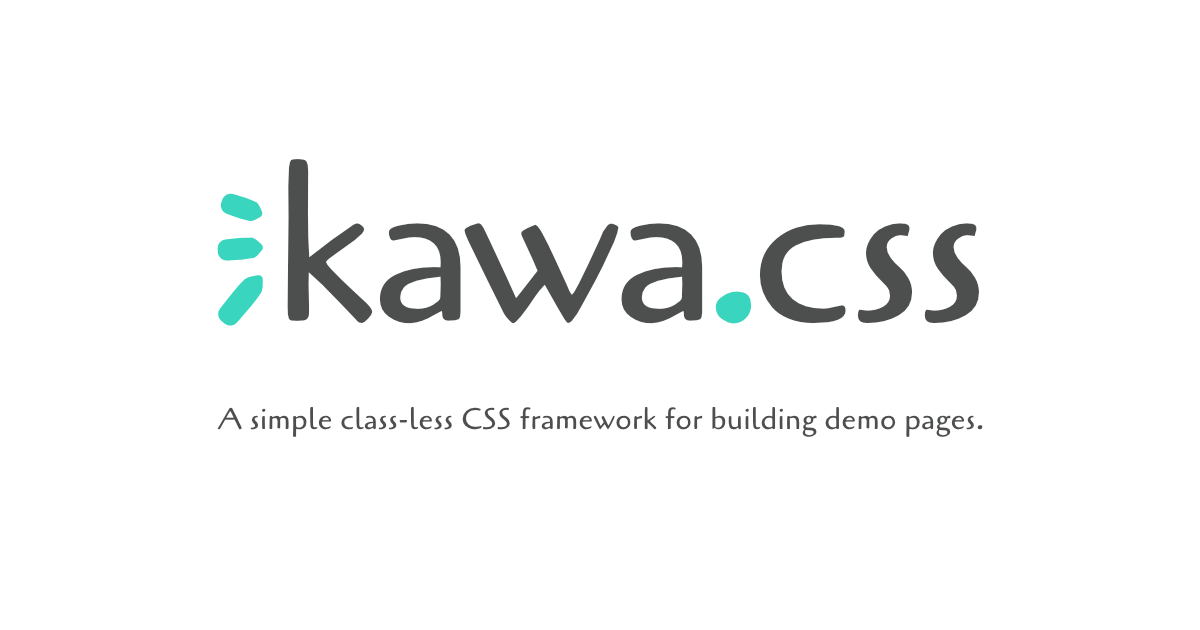
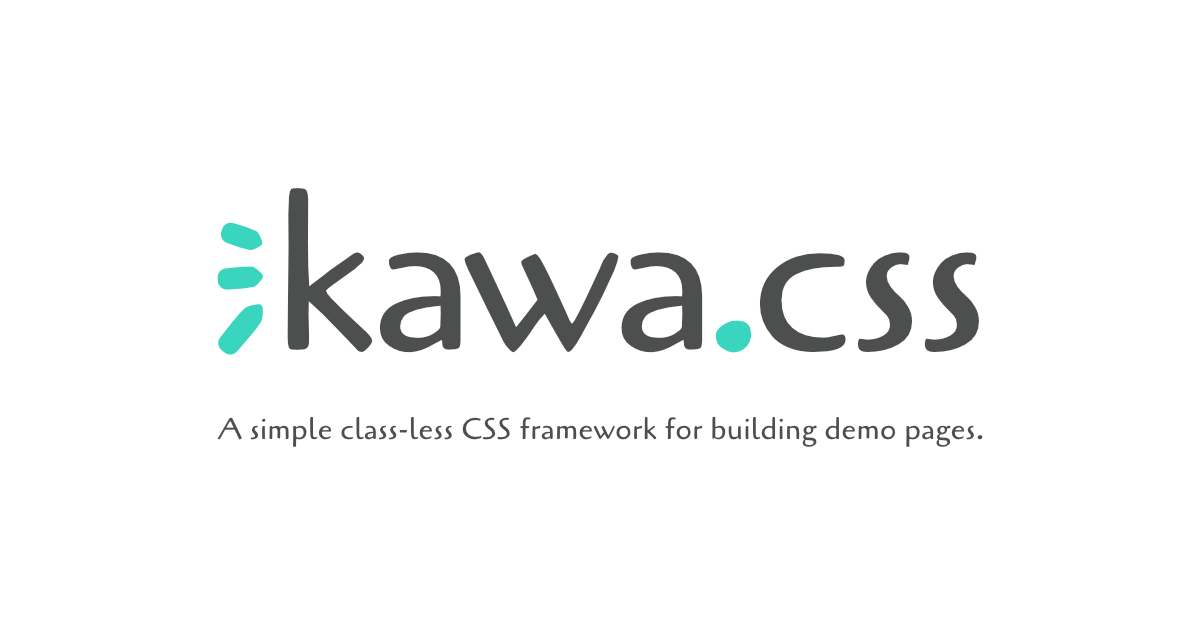
Update ogp/twitter meta info and ogp image

Changed region(s): [[0.185, 0.3016, 0.8325, 0.573], [0.185, 0.6333, 0.8325, 0.7238], [0.2158, 0.2413, 0.2775, 0.3016]]

diff --git a/src/index.html b/src/index.html
@@ -1,10 +1,17 @@
 <!DOCTYPE html>
 <html lang="ja">
 <head>
+  <title>kawa.css - A simple class-less CSS framework for building demo pages</title>
 	<meta charset="UTF-8">
   <meta name="viewport" content="width=device-width,initial-scale=1">
-  <meta property="og:image" content="img/kawacss-ogp.png">
-  <title>kawa.css</title>
+  <meta name="description" content="クラスレス（class-less）で使えるデモページ作成用の簡易CSSフレームワーク">
+  <meta property="og:image" content="https://kawacss.rriver.dev/img/kawacss-ogp.png">
+  <meta name="twitter:card" content="summary_large_image">
+  <meta name="twitter:site" content="@rriver">
+  <meta name="twitter:creator" content="@rriver">
+  <meta name="twitter:title" content="kawa.css" />
+  <meta name="twitter:description" content="クラスレス（class-less）で使えるデモページ作成用の簡易CSSフレームワーク" />
+  <meta name="twitter:image" content="https://kawacss.rriver.dev/img/kawacss-ogp.png" />
   <link rel="stylesheet" href="css/style.css">
 <style>
 .logo {
